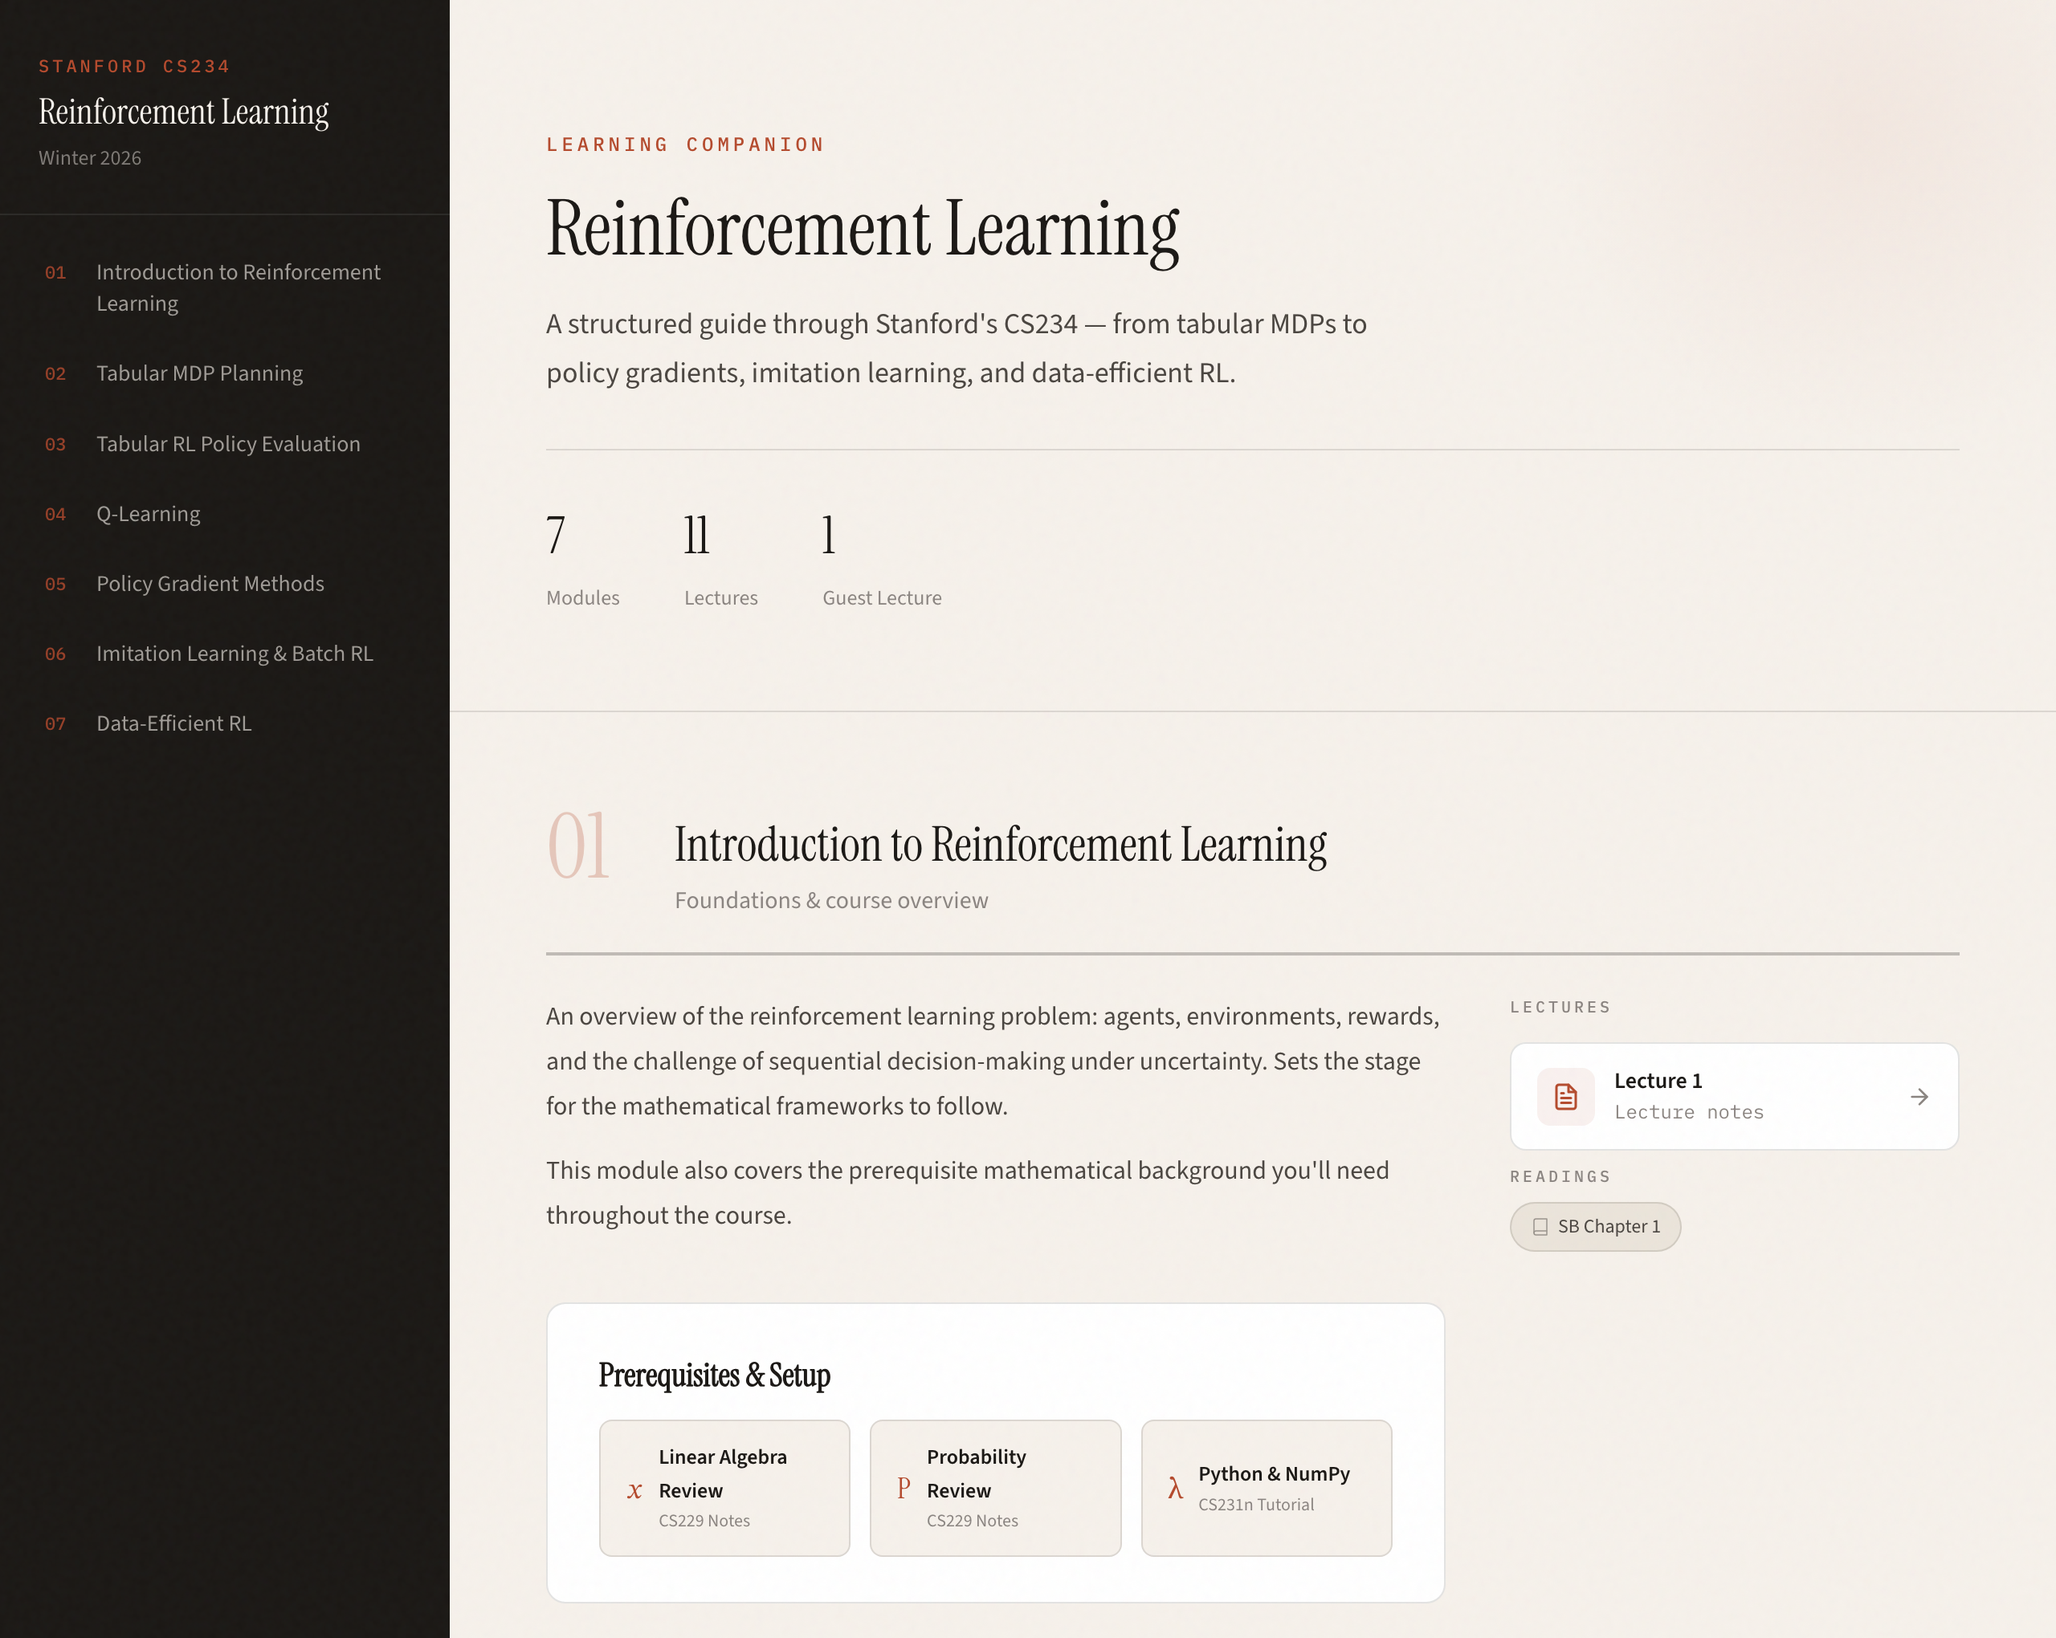
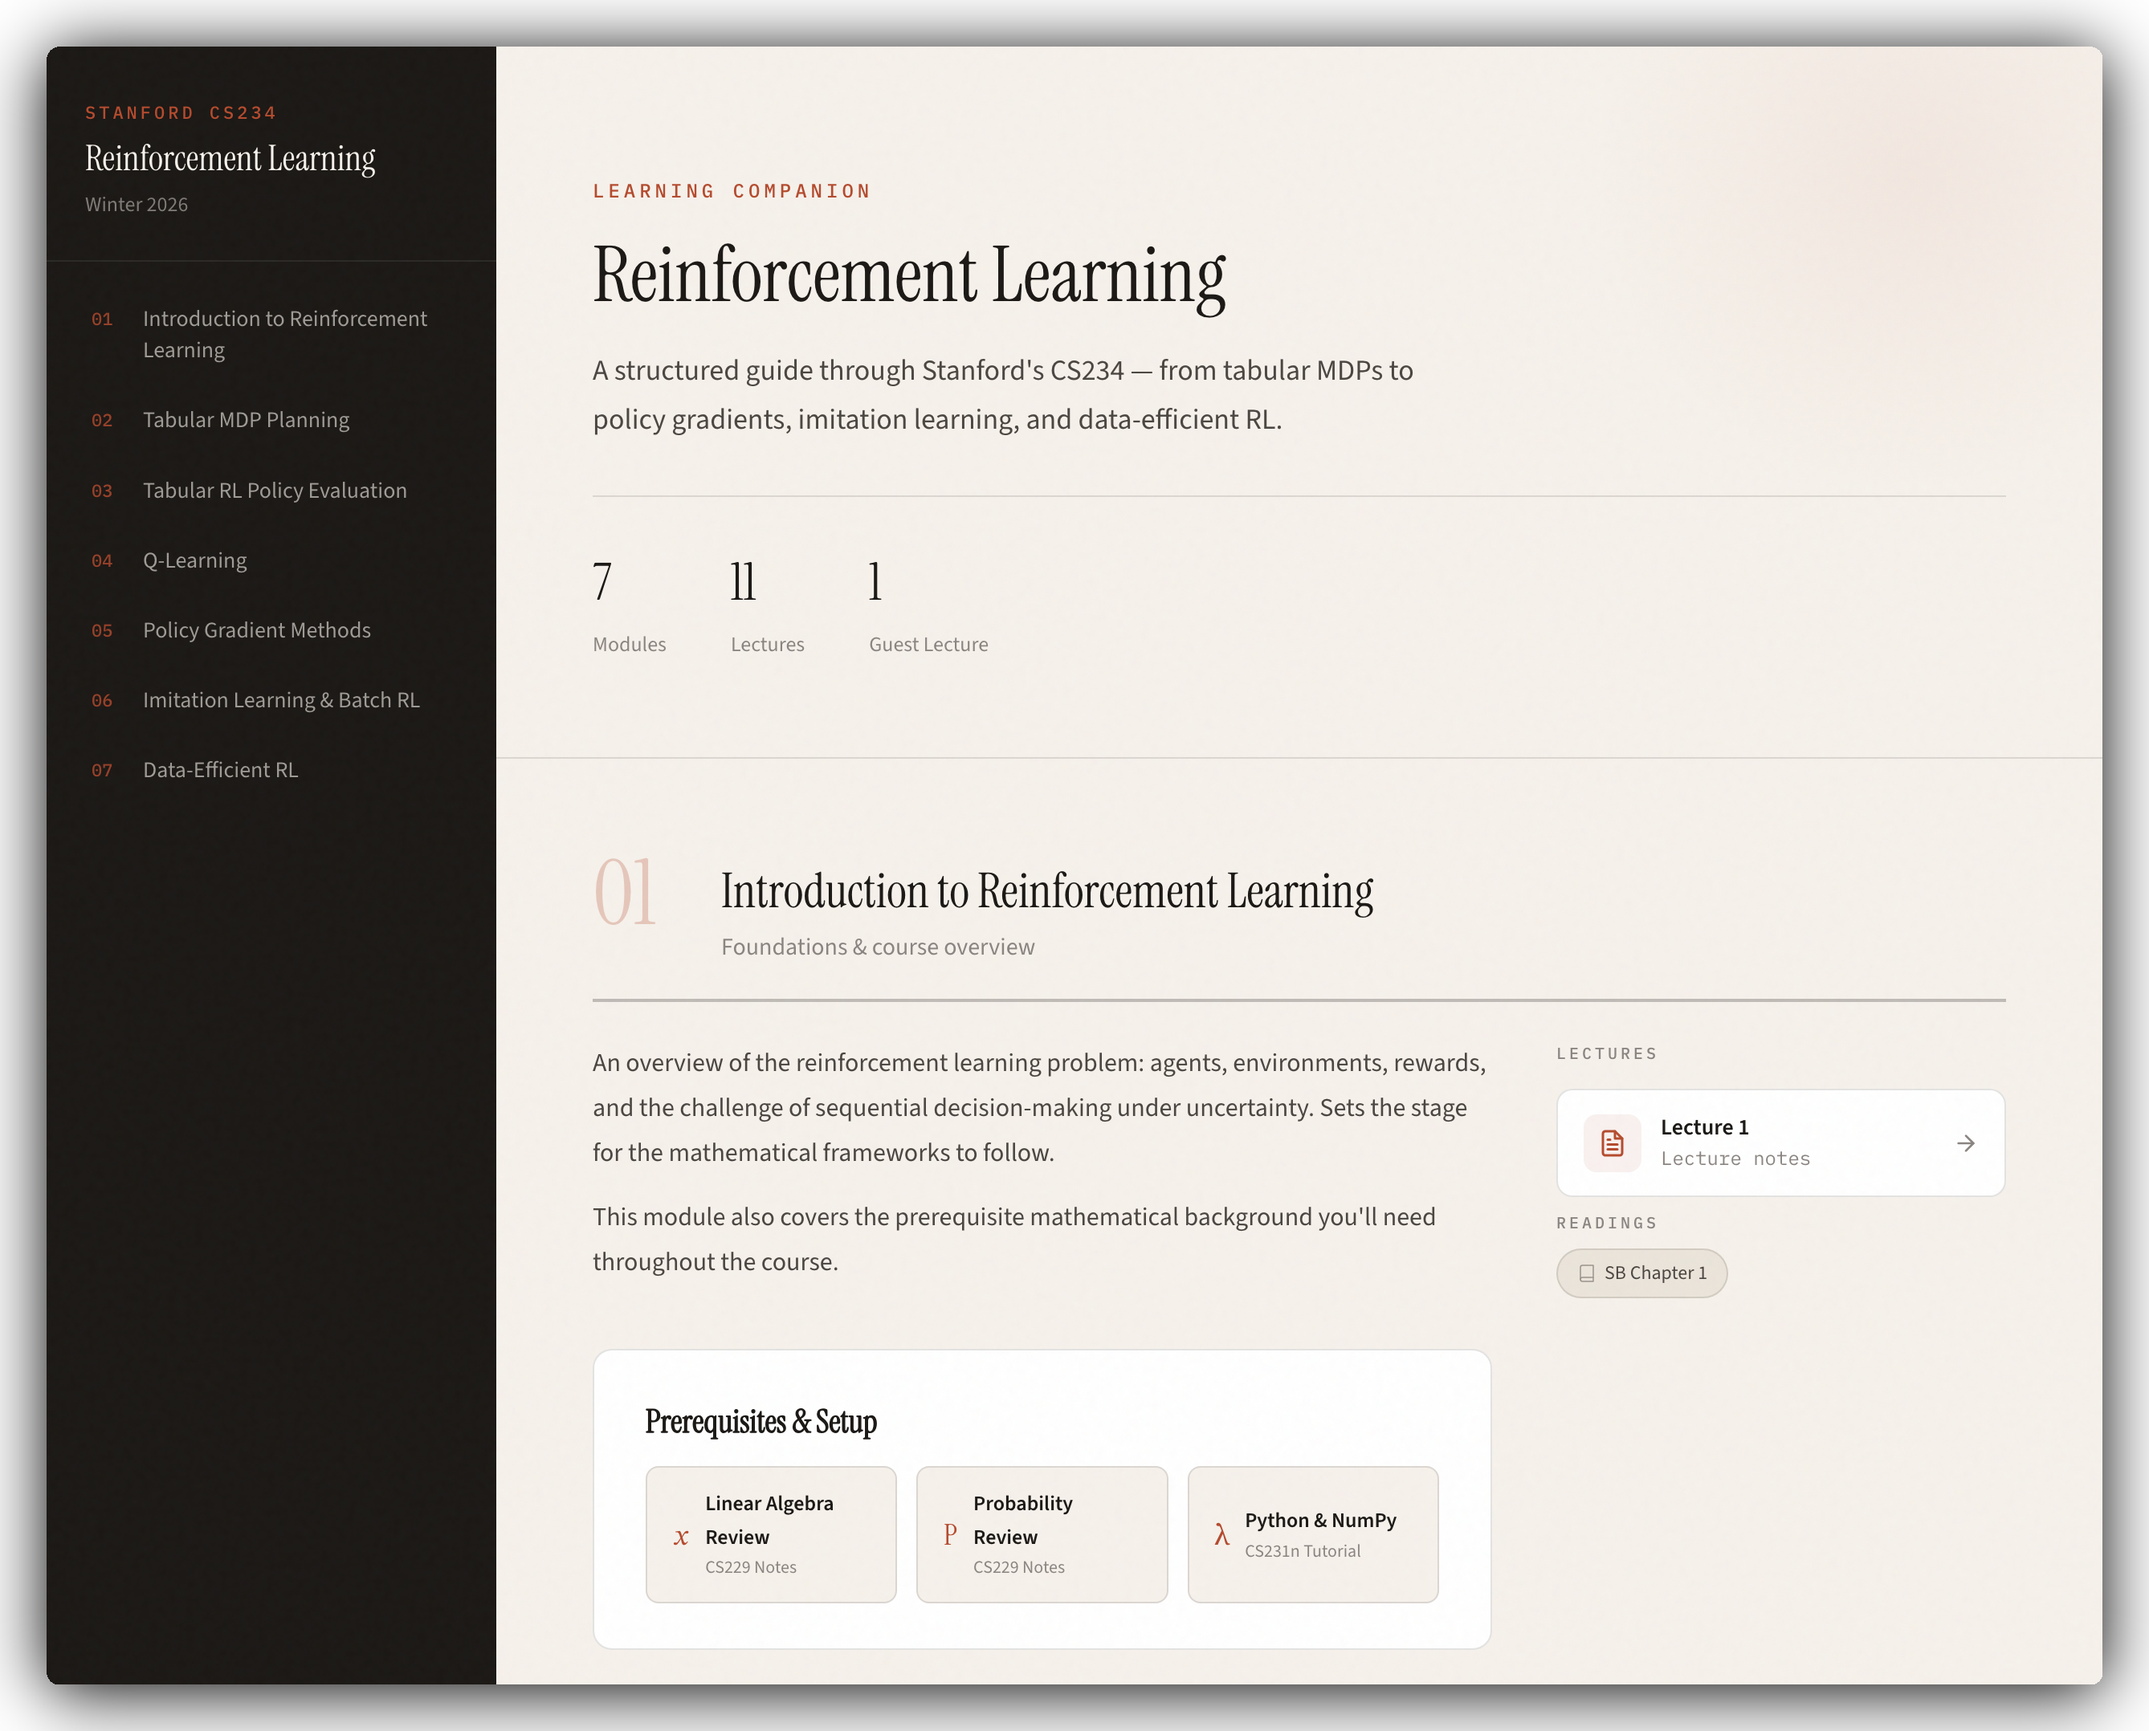
Polish README: personal voice, linked modules, drop shadow on preview
- Add personal "Why this exists" section (Stanford alum, working parent angle)
- Remove AI-sounding prose patterns (staccato fragments, grandiose framing)
- Replace plain site link with forest-green shields.io badge
- Convert topics code block to markdown table with links to each lecture
- Remove JS frameworks badge
- Bake rounded corners + drop shadow into preview.png

diff --git a/README.md b/README.md
@@ -16,8 +16,7 @@
[1 lines of base64/hex data omitted]
   <a href="#"><img alt="Lectures" src="https://img.shields.io/badge/lectures-11-E8A87C?style=flat-square"></a>
   <a href="#"><img alt="Modules" src="https://img.shields.io/badge/modules-7-85CDCA?style=flat-square"></a>
-  <a href="#"><img alt="Zero JS Frameworks" src="https://img.shields.io/badge/JS%20frameworks-0-D4A373?style=flat-square"></a>
-  <a href="#"><img alt="Math rendered" src="https://img.shields.io/badge/KaTeX-equations%20everywhere-6C63FF?style=flat-square"></a>
+<a href="#"><img alt="Math rendered" src="https://img.shields.io/badge/KaTeX-equations%20everywhere-6C63FF?style=flat-square"></a>
 </p>
 
 <p align="center">
@@ -42,35 +41,35 @@ Every lecture from the course is distilled into clean, readable HTML pages with:
 - Direct links to the original **PDF slides**
 
 <p align="center">
-  <a href="https://maninae.github.io/cs234"><img alt="Start reading" src="https://img.shields.io/badge/%E2%96%B6_Start_reading-maninae.github.io%2Fcs234-6C63FF?style=for-the-badge&logoColor=white"></a>
+  <a href="https://maninae.github.io/cs234"><img alt="Start reading" src="https://img.shields.io/badge/%E2%96%B6_Start_reading-maninae.github.io%2Fcs234-228B22?style=for-the-badge&logoColor=white"></a>
 </p>
 
 ## Topics covered
 
-```
-Module 1  Introduction to RL ............... what RL is, why it matters now
-Module 2  Tabular MDP Planning ............. Bellman equations, value & policy iteration
-Module 3  Model-Free Policy Evaluation ..... Monte Carlo, TD learning, bias-variance
-Module 4  Q-Learning ....................... off-policy control, SARSA, function approx
-Module 5  Policy Gradients ................. REINFORCE, actor-critic, trust regions
-Module 6  Imitation Learning & RLHF ........ behavioral cloning, DAgger, DPO
-Module 7  Exploration & Sample Efficiency .. bandits, UCB, PAC-MDP bounds
-```
-
-The course traces a beautiful arc from *"what if we just store a table?"* to *"how do we align a language model with human preferences?"* -- and this site follows every step.
+| Module | Topic | Key ideas |
+|--------|-------|-----------|
+| 1 | [Introduction to RL](https://maninae.github.io/cs234/lectures/lecture01.html) | what RL is, why it matters now |
+| 2 | [Tabular MDP Planning](https://maninae.github.io/cs234/lectures/lecture02.html) | Bellman equations, value & policy iteration |
+| 3 | [Model-Free Policy Evaluation](https://maninae.github.io/cs234/lectures/lecture03.html) | Monte Carlo, TD learning, bias-variance |
+| 4 | [Q-Learning](https://maninae.github.io/cs234/lectures/lecture04.html) | off-policy control, SARSA, function approx |
+| 5 | [Policy Gradients](https://maninae.github.io/cs234/lectures/lecture05.html) | REINFORCE, actor-critic, trust regions |
+| 6 | [Imitation Learning & Batch RL](https://maninae.github.io/cs234/lectures/lecture07.html) | behavioral cloning, DAgger, DPO |
+| 7 | [Data-Efficient RL](https://maninae.github.io/cs234/lectures/lecture09.html) | bandits, UCB, PAC-MDP bounds |
 
 ## Why this exists
 
-Reinforcement learning is having a moment. A big one.
+I took CS234 at Stanford about ten years ago and loved it. The field has changed a ton since then, so I revisited the course for a refresher. Turns out the grind is much harder as a working adult with kids than it was as a 20-year-old undergrad.
 
-RLHF is the technique that turned GPT into ChatGPT. DPO -- [invented at Stanford](https://arxiv.org/abs/2305.18290) by researchers who guest-lecture in this very course -- simplified that pipeline and is now used across the industry. AlphaGo, AlphaZero, plasma control at nuclear reactors, autonomous driving at Waymo, reasoning in frontier LLMs... all RL.
+**I built this for curious learners who don't have as much time.**
 
-CS234 is one of the best places to learn it. But lecture slides are dense. Textbooks are long. This companion fills the gap: **structured, readable, pretty notes** that you can reference alongside lectures or use for independent study.
+RL is everywhere: AlphaGo, AlphaZero, plasma control at nuclear reactors, autonomous driving at Waymo, reasoning in frontier LLMs. RLHF is the technique that turned GPT into ChatGPT, and DPO, [invented at Stanford](https://arxiv.org/abs/2305.18290) by researchers who guest-lecture in this very course, simplified that pipeline and is now used across the industry.
+
+CS234 is one of the best places to learn it. But lecture slides are dense and textbooks are long, so this companion fills the gap: **structured, readable, pretty notes** that you can reference alongside lectures or use for independent study.
 
 ## Acknowledgments
 
 - **Emma Brunskill** and the CS234 teaching team for an outstanding course
-- **Sutton & Barto** for [the textbook](http://incompleteideas.net/book/the-book-2nd.html) that started it all
+- **Sutton & Barto** for [the textbook](http://incompleteideas.net/book/the-book-2nd.html)
 - **KaTeX** for making math on the web not terrible
 
 ## License

diff --git a/.claude/history/2026-02-24-readme-polish-human-prose/session.md b/.claude/history/2026-02-24-readme-polish-human-prose/session.md
@@ -1,0 +1,66 @@
+# Session: README polish and human prose cleanup
+
+## Goal
+Make the README more visually appealing and less AI-sounding. Specific complaints: the `maninae.github.io/cs234` link wasn't eye-catching, and several prose patterns read as obviously AI-generated.
+
+## Approach
+Iterative, user-directed edits. The user had strong opinions on tone and drove most decisions; my role was to propose options, execute quickly, and flag AI tells.
+
+## Key decisions
+
+1. **CTA badge for the site link**: Tried a shields.io `for-the-badge` style button. User initially rejected it ("what's a CTA button?"), then changed their mind. Final color: forest green `#228B22`.
+
+2. **AI-tell identification**: User asked me to identify AI prose patterns from my own knowledge (no external lookup). I flagged several; user agreed with three specific ones:
+   - "Reinforcement learning is having a moment. A big one." (dramatic fragment cadence)
+   - "But lecture slides are dense. Textbooks are long." (staccato parallel fragments)
+   - "the textbook that started it all" (grandiose framing)
+
+   User explicitly noted other patterns I flagged were fine ("Some of those above are OK!").
+
+3. **No em-dashes**: User preference. Use commas instead.
+
+4. **Personal "Why this exists" section**: User provided raw draft about taking CS234 ten years ago, being a working parent, wanting a refresher. I tightened it while keeping the personal voice and the kids line.
+
+5. **"all RL" reordering**: Moved the enumeration payoff ("all RL") to the start of the paragraph instead of the end, to avoid dramatic buildup cadence.
+
+6. **Shadow on preview.png**: GitHub strips inline CSS `style` attributes, so baked rounded corners and drop shadow directly into the PNG using Pillow. Parameters: radius=16, shadow offset=(0,8), blur=40, opacity=60/255.
+
+## Work performed (chronological)
+
+1. Read existing README.md
+2. Replaced plain bold site link with shields.io `for-the-badge` button (purple `#6C63FF`)
+3. User rejected, explained CTA concept, proposed alternatives
+4. User reversed decision, asked for forest green — changed to `#228B22`
+5. Removed "No sign-ups. No paywalls. Just start reading." line
+6. Identified AI-generated prose patterns, user selected three to fix
+7. Deleted "Reinforcement learning is having a moment. A big one."
+8. Merged staccato fragments into one sentence with em-dash
+9. User said no em-dashes — changed to comma with "so"
+10. Trimmed "that started it all" from Sutton & Barto acknowledgment
+11. Moved "all RL" from end to start of the RL-is-everywhere paragraph
+12. Added personal paragraph to "Why this exists" (Stanford 10 years ago, kids, working adult)
+13. Refined user's draft paragraph, applied after approval
+14. Bolded "I built this for curious learners..." and put on its own line
+15. Removed "The course traces a beautiful arc..." sentence
+16. Removed "JS frameworks: 0" badge
+17. Attempted inline CSS shadow on screenshot — realized GitHub strips it
+18. Baked shadow + rounded corners into preview.png via Pillow
+19. Reverted inline CSS, kept clean `<img>` tag
+20. Converted Topics code block into markdown table with links to each module's first lecture
+
+## Artifacts created/modified
+
+- **README.md** — major prose and structure overhaul
+- **preview.png** — rounded corners + drop shadow baked in
+- **~/.claude/skills/write-like-human/SKILL.md** — added three new AI-tell patterns to the CUT section:
+  - Dramatic fragment cadence
+  - Staccato parallel fragments
+  - Grandiose framing
+
+## Lessons / takeaways
+
+- User has a strong ear for AI-generated prose. Specific patterns they reject: dramatic mic-drop fragments, symmetrical staccato sentences, grandiose historical framing.
+- User prefers commas over em-dashes.
+- User prefers direct, personal writing voice. The "working adult with kids" angle is genuine and they want it front and center.
+- GitHub README rendering strips inline `style` attributes — always bake visual effects into the image itself.
+- When proposing changes, give options and let the user pick rather than making unilateral rewrites to prose. They know what they want.

diff --git a/.claude/history/2026-02-24-readme-polish-human-prose/BRIEF.md b/.claude/history/2026-02-24-readme-polish-human-prose/BRIEF.md
@@ -1,0 +1,6 @@
+# Polish README prose, remove AI tells, add visual flair to screenshot and module links.
+
+**Keywords**: README, prose, AI-generated patterns, shields.io badge, preview.png, drop shadow, Pillow, markdown table, write-like-human skill, human readability
+**Branch**: main
+**PR**: n/a
+**Files touched**: README.md, preview.png, ~/.claude/skills/write-like-human/SKILL.md
